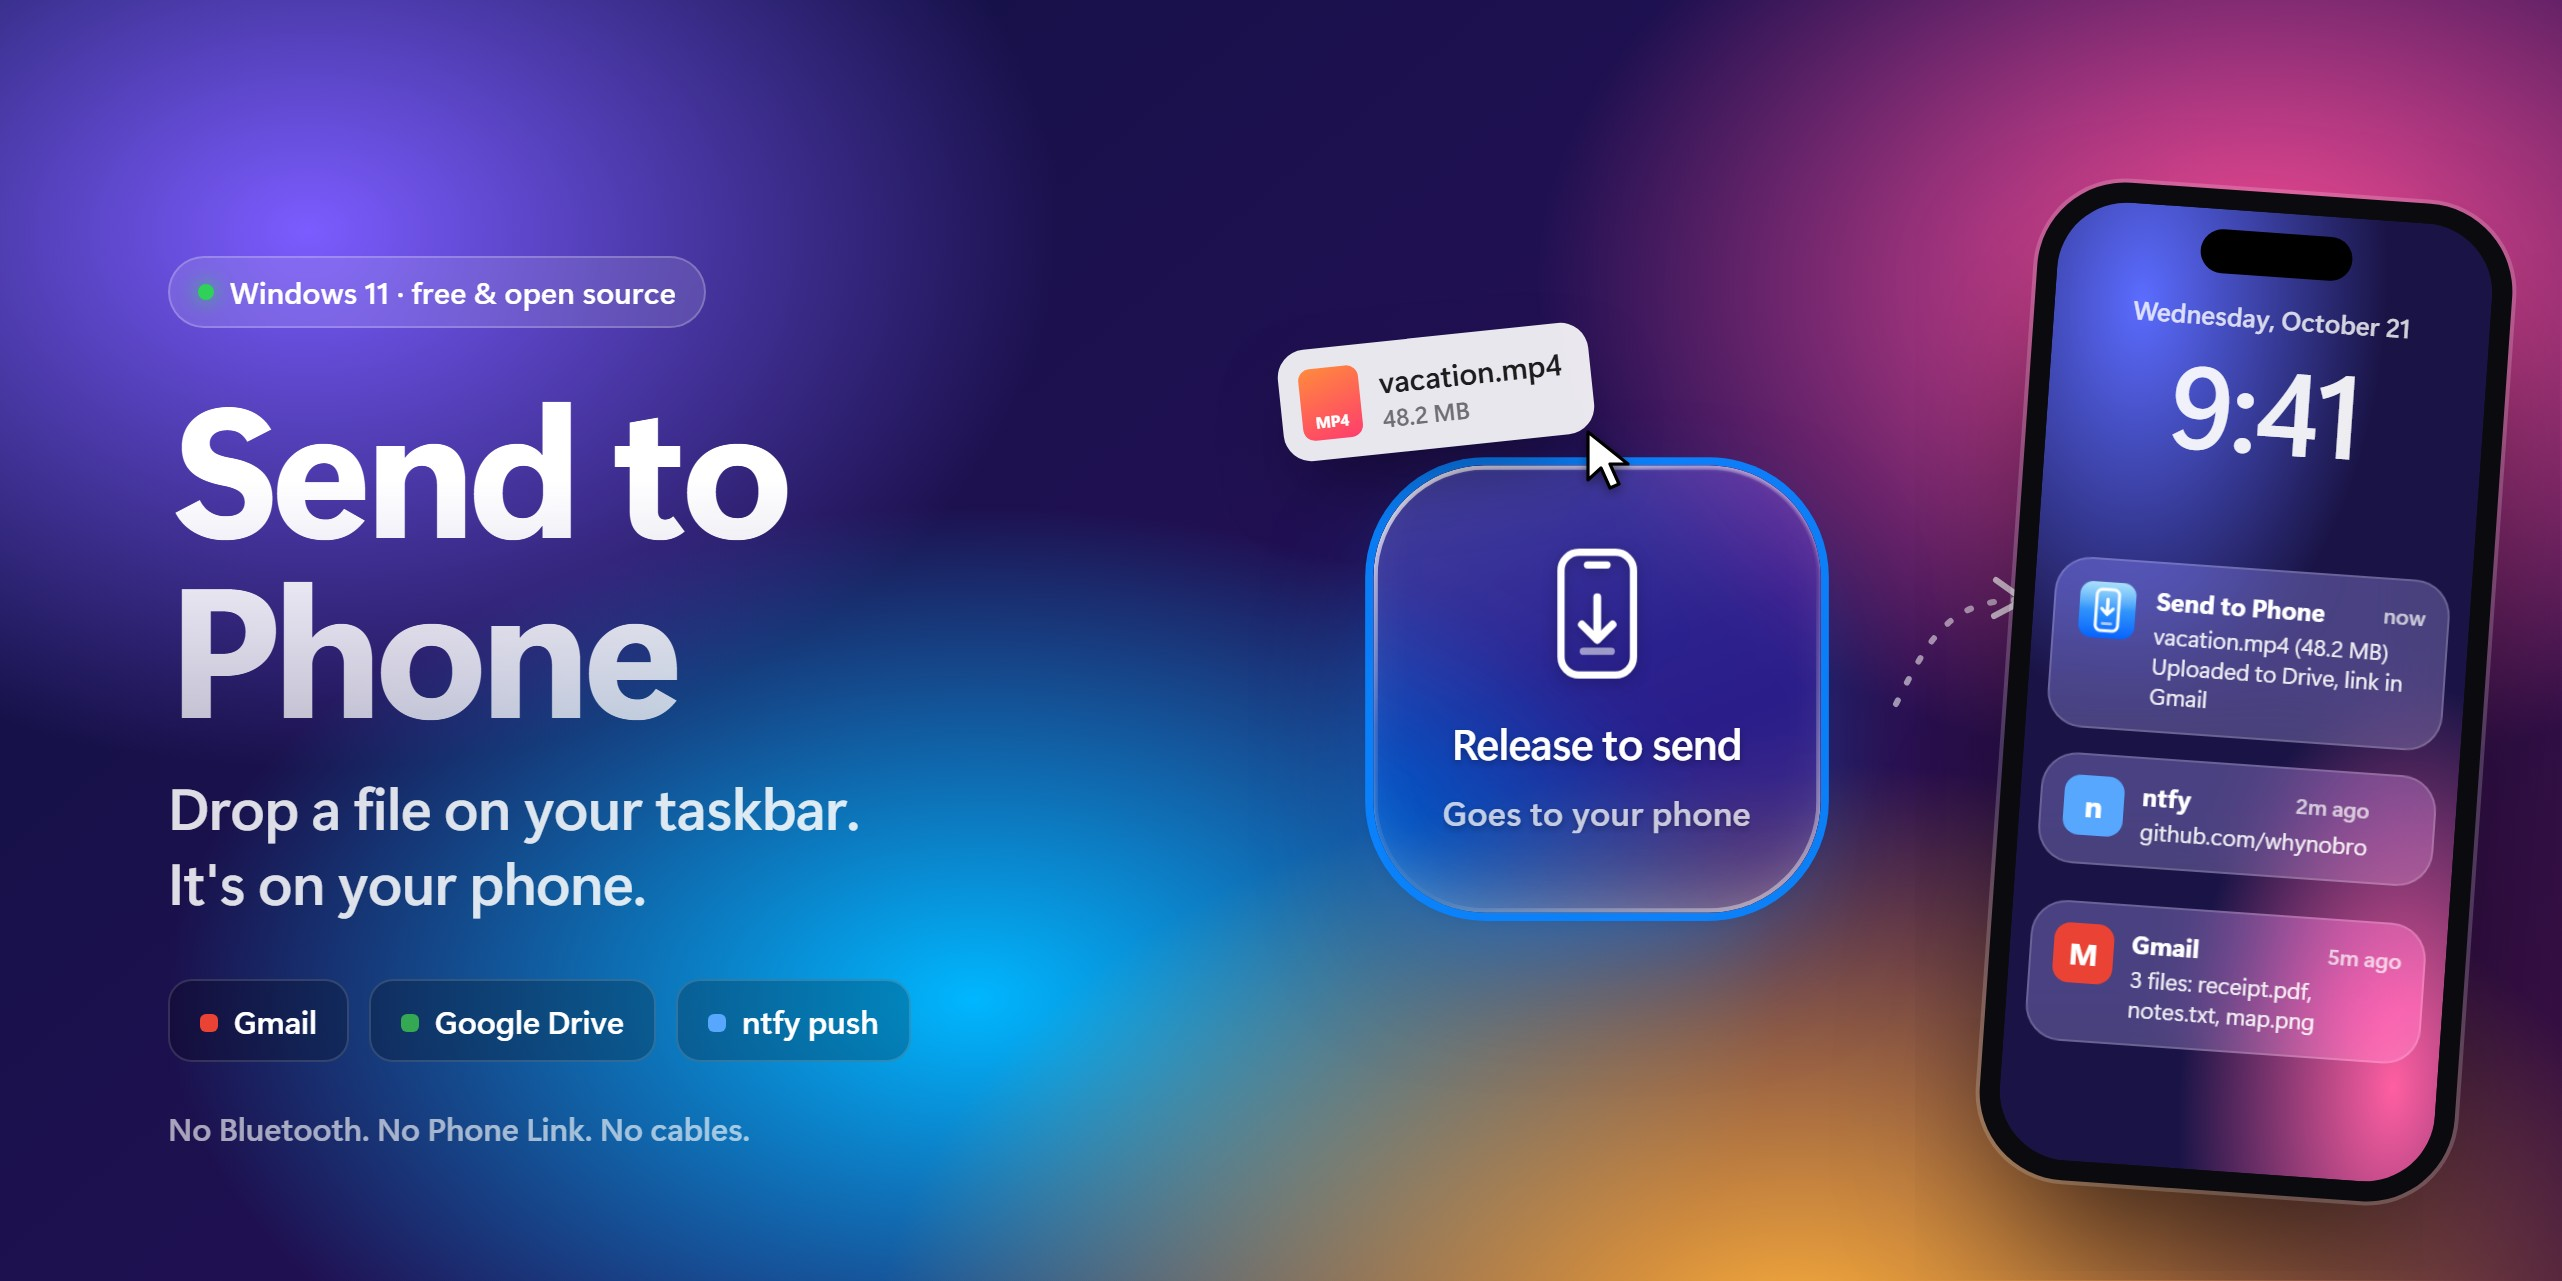
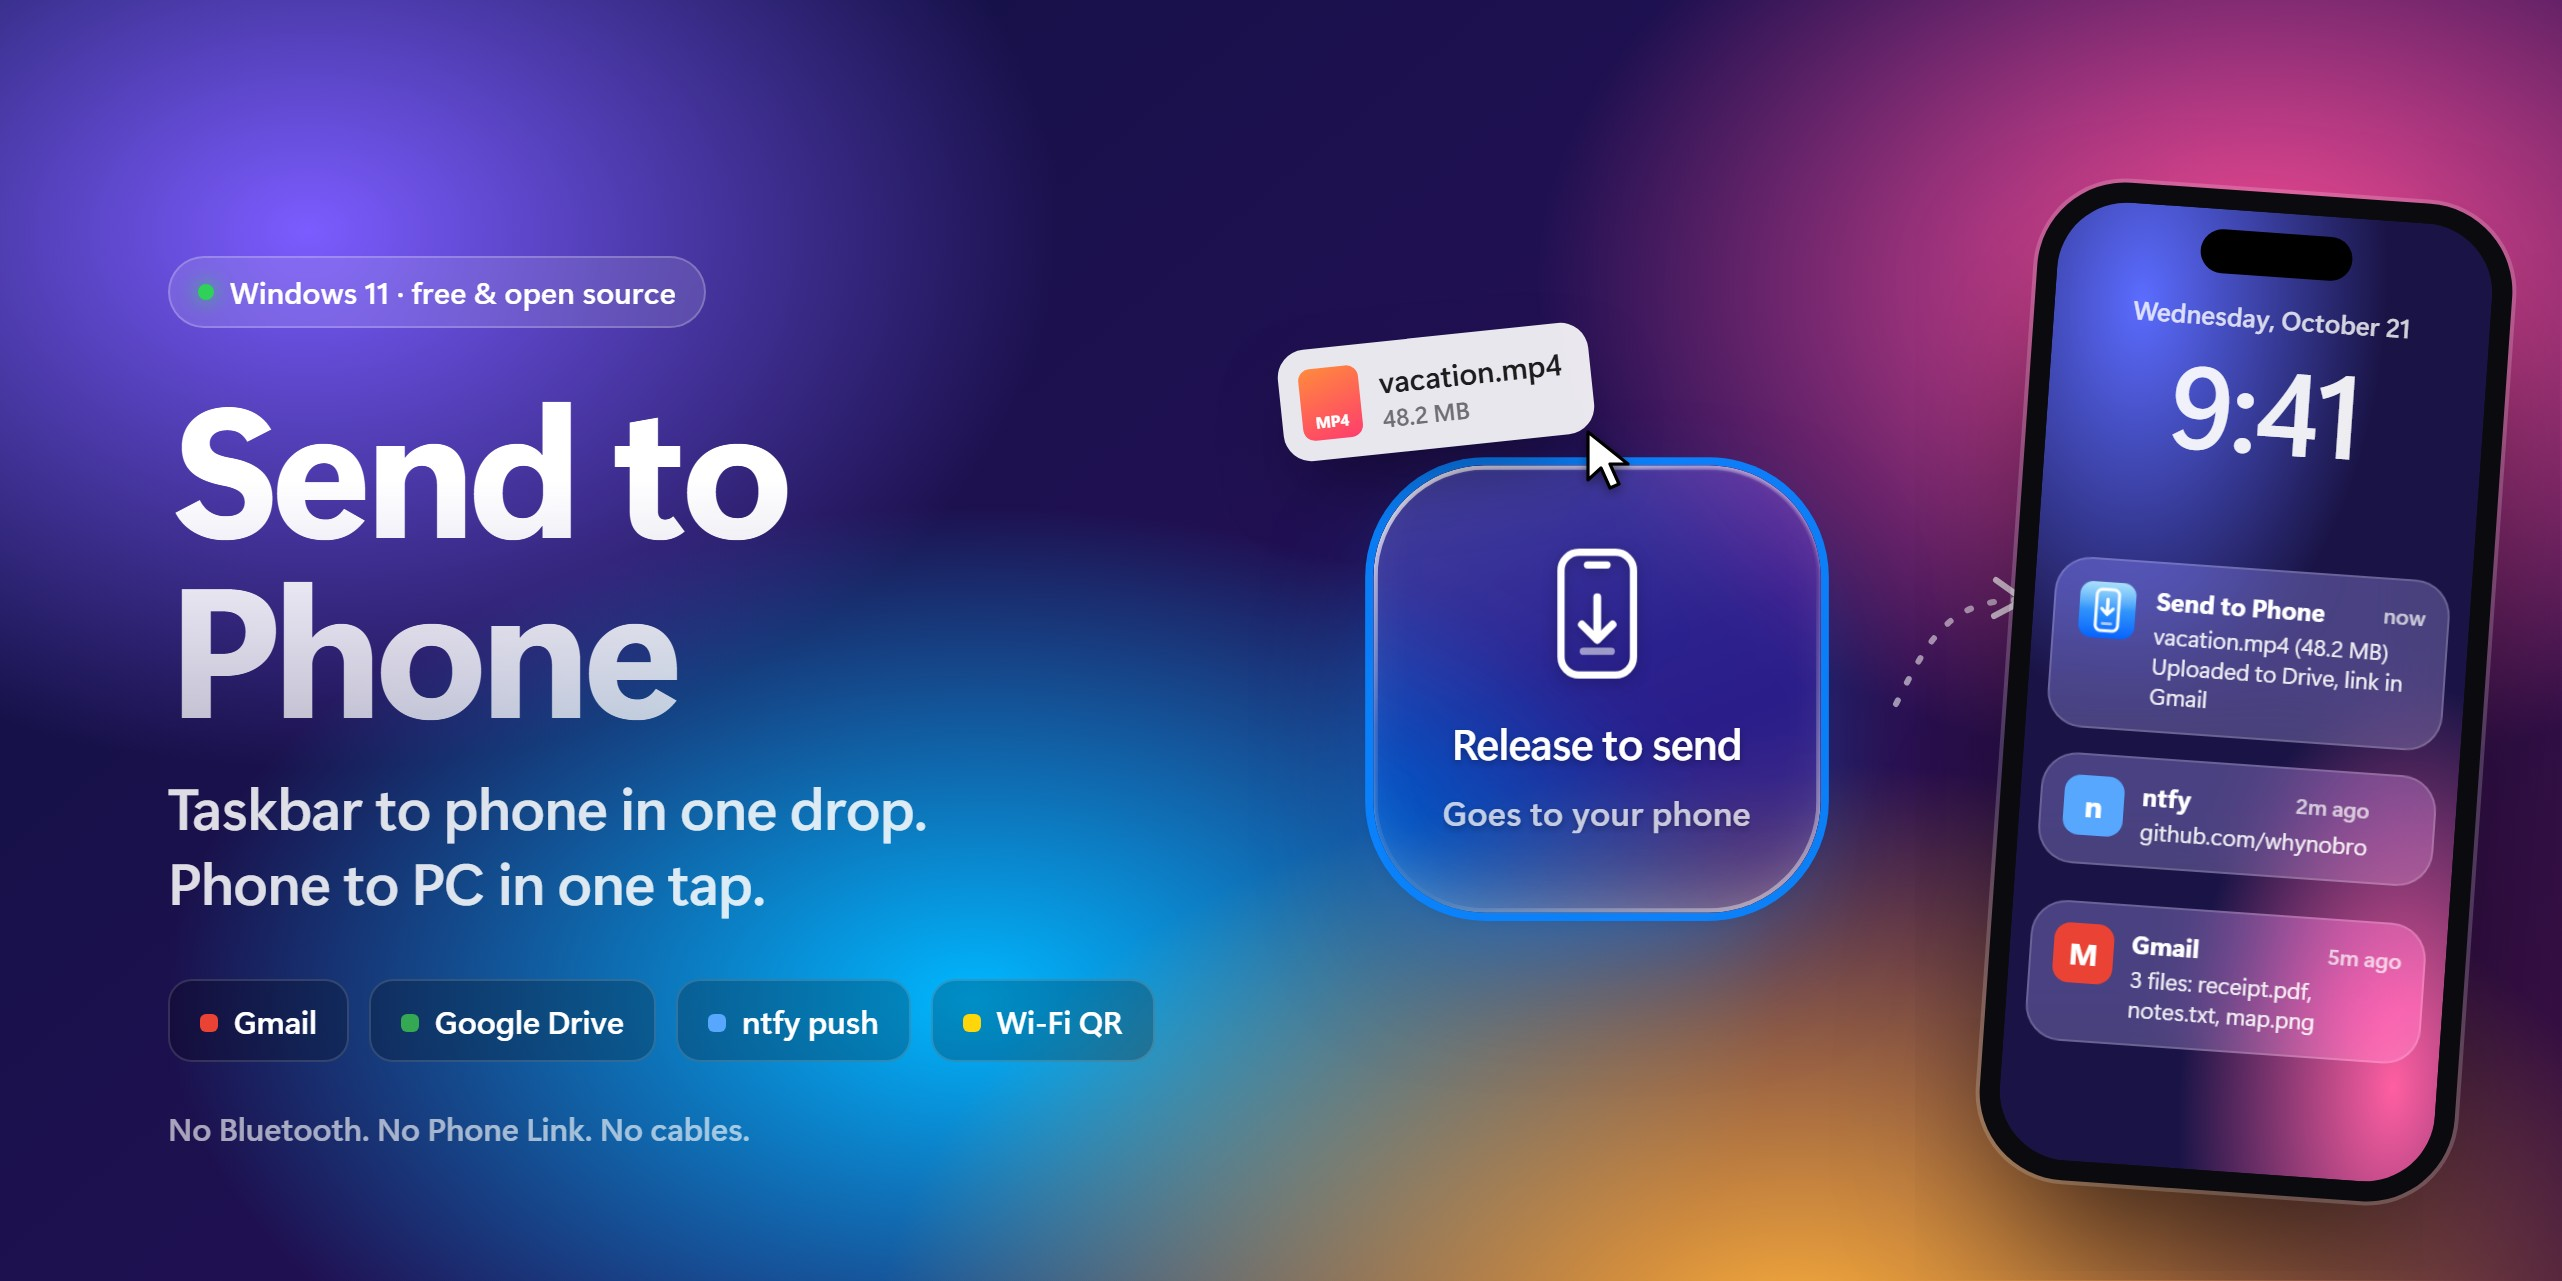
Show the two-way flow in the README and media
Banner tagline now covers both directions and adds a Wi-Fi QR chip.
New receive.jpg renders the real phone drop page beside the widget's
Received state and toast. README hero, intro and nav link to Phone to PC.

Changed region(s): [[0.0625, 0.5933, 0.3747, 0.7182], [0.3435, 0.7494, 0.4684, 0.8431]]

diff --git a/scripts/render-media.js b/scripts/render-media.js
@@ -1,10 +1,11 @@
 // Renders the README media in docs/media from the app's real widget.html CSS + markup,
-// over a synthetic wallpaper. Run: npm run media (ONLY=banner|states|taskbar|gif for one).
+// over a synthetic wallpaper. Run: npm run media (ONLY=banner|states|taskbar|receive|gif for one).
 const { app, BrowserWindow } = require('electron');
 const fs = require('fs');
 const os = require('os');
 const path = require('path');
 const { GIFEncoder, quantize, applyPalette } = require('gifenc');
+const { renderPage } = require('../src/dropserver');
 
 const proj = path.join(__dirname, '..');
 const out = path.join(proj, 'docs', 'media');
@@ -103,11 +104,12 @@ const banner = page(1280, 640, `
   <div class="copy">
     <div class="pill"><i></i>Windows 11 · free &amp; open source</div>
     <h1>Send to<br>Phone</h1>
-    <div class="tag">Drop a file on your taskbar.<br>It's on your phone.</div>
+    <div class="tag">Taskbar to phone in one drop.<br>Phone to PC in one tap.</div>
     <div class="chips">
       <div class="chip"><b style="background:#ea4335"></b>Gmail</div>
       <div class="chip"><b style="background:#34a853"></b>Google Drive</div>
       <div class="chip"><b style="background:#57a7ff"></b>ntfy push</div>
+      <div class="chip"><b style="background:#ffd60a"></b>Wi-Fi QR</div>
     </div>
     <div class="fine">No Bluetooth. No Phone Link. No cables.</div>
   </div>
@@ -165,6 +167,51 @@ const bar = (top, light, state, title, label) => `
     <div class="tray">9:41 AM<br>10/21/2026</div>
   </div>`;
 const taskbarPage = page(1000, 300, bar(28, false, 'idle', 'Send to Phone') + bar(124, false, 'sending', 'Sending 42%') + bar(220, true, 'done', 'Sent'), TB_CSS);
+
+// ---------- receive (phone -> PC) ----------
+// The phone shows the real drop page from dropserver.js, frozen mid-batch (its script stripped).
+const ROWS = [
+  ['IMG_2041.HEIC', '3.1 MB · Sent', 'done', 100],
+  ['lecture-scan.pdf', '840 KB · Sent', 'done', 100],
+  ['clip.mov', '212.4 MB · 64%', 'sending', 64],
+];
+const CHECK = '<svg viewBox="0 0 26 26"><circle cx="13" cy="13" r="13" fill="#30d158"/><path d="M7.5 13.5l3.7 3.7 7.3-7.6" fill="none" stroke="#fff" stroke-width="2.4" stroke-linecap="round" stroke-linejoin="round"/></svg>';
+const dropPage = renderPage('My PC')
+  .replace(/<script>[\s\S]*<\/script>/, '')
+  .replace('</style>', ':root { --bg: #000; --card: #1c1c1e; --text: #fff; --sub: #98989f; --track: rgba(120,120,128,.32); } body { padding-top: 54px; }</style>')
+  .replace('<p id="summary" role="status" aria-live="polite"></p>', '<p id="summary">Sending 3 of 3…</p>')
+  .replace('<ul id="list"></ul>', '<ul id="list">' + ROWS.map(([n, m, st, pct]) =>
+    `<li class="row ${st}"><div class="name">${n}</div><div class="state">${st === 'done' ? CHECK : ''}</div><div class="meta">${m}</div><div class="bar"><i style="width:${pct}%"></i></div></li>`).join('') + '</ul>');
+const RX_CSS = `
+  .rphone { position: absolute; left: 96px; top: 34px; width: 286px; height: 572px; border-radius: 46px; background: #0b0b0f; padding: 10px; box-sizing: border-box;
+    box-shadow: 0 0 0 2px rgba(255,255,255,.18), 0 40px 80px -20px rgba(0,0,0,.7); transform: rotate(-3deg); }
+  .rscreen { width: 100%; height: 100%; border-radius: 37px; overflow: hidden; position: relative; background: #000; }
+  .rscreen iframe { border: 0; width: 390px; height: 753px; transform: scale(.682); transform-origin: 0 0; }
+  .island { position: absolute; top: 10px; left: 50%; transform: translateX(-50%); width: 80px; height: 23px; border-radius: 12px; background: #000; z-index: 2; }
+  .rcopy { position: absolute; left: 500px; top: 70px; width: 680px; }
+  .rcopy h2 { font-size: 64px; line-height: 1; margin: 0 0 16px; font-weight: 750; letter-spacing: -.035em; }
+  .rcopy p { font-size: 25px; line-height: 1.35; margin: 0; color: rgba(255,255,255,.86); font-weight: 500; }
+  .rchips { display: flex; gap: 10px; margin-top: 24px; }
+  .rchips div { padding: 9px 15px; border-radius: 12px; font-size: 16px; font-weight: 600; background: rgba(0,0,0,.22); border: 1px solid rgba(255,255,255,.14); }
+  .toast { position: absolute; left: 740px; top: 392px; width: 392px; border-radius: 10px; padding: 14px 16px 16px; box-sizing: border-box;
+    background: rgba(32,32,36,.9); border: 1px solid rgba(255,255,255,.1); box-shadow: 0 24px 50px -16px rgba(0,0,0,.6); font-size: 14px; }
+  .toast .app { display: flex; gap: 8px; align-items: center; font-size: 12px; color: rgba(255,255,255,.75); margin-bottom: 10px; }
+  .toast .app img { width: 16px; height: 16px; }
+  .toast b { display: block; font-size: 15px; margin-bottom: 3px; }
+  .toast span { color: rgba(255,255,255,.75); }
+  .rarc { position: absolute; left: 0; top: 0; }`;
+const receivePage = page(1240, 620, `
+  <div class="rphone"><div class="rscreen"><div class="island"></div><iframe srcdoc="${dropPage.replace(/&/g, '&amp;').replace(/"/g, '&quot;')}"></iframe></div></div>
+  <div class="rcopy">
+    <h2>And back again</h2>
+    <p>Scan the QR code on your PC, pick photos or files.<br>They land in your Downloads folder.</p>
+    <div class="rchips"><div>Same Wi-Fi: any size, no app</div><div>ntfy: from anywhere</div></div>
+  </div>
+  <svg class="rarc" width="1240" height="620"><path d="M404 470 C 450 520, 470 470, 486 446" fill="none" stroke="rgba(255,255,255,.55)" stroke-width="3" stroke-dasharray="2 10" stroke-linecap="round"/>
+    <path d="M476 446 l12 -2 1 13" fill="none" stroke="rgba(255,255,255,.7)" stroke-width="3" stroke-linecap="round" stroke-linejoin="round"/></svg>
+  ${tile(486, 356, 1.15, 'done', 'Received', 'lecture-scan.pdf')}
+  <div class="toast"><div class="app"><img src="${ICON}">Send to Phone</div><b>2 files from your phone</b><span>IMG_2041.HEIC, lecture-scan.pdf</span></div>
+`, RX_CSS);
 
 // ---------- render ----------
 async function open(html, name, w, h, zoom = 2) {
@@ -279,6 +326,7 @@ app.whenReady().then(async () => {
     if (!only || only === 'banner') await shot(banner, 'banner', 1280, 640, 'jpg');
     if (!only || only === 'states') await shot(statesPage, 'states', 1240, 300);
     if (!only || only === 'taskbar') await shot(taskbarPage, 'taskbar', 1000, 300);
+    if (!only || only === 'receive') await shot(receivePage, 'receive', 1240, 620, 'jpg');
     if (!only || only === 'gif') await gif();
   } catch (e) {
     console.error(e);

diff --git a/src/dropserver.js b/src/dropserver.js
@@ -471,4 +471,4 @@ async function startDropServer({ port = 47800, token, dir, pcName = 'your PC', o
   };
 }
 
-module.exports = { startDropServer, lanAddresses, isPrivateAddress };
+module.exports = { startDropServer, lanAddresses, isPrivateAddress, renderPage };

diff --git a/README.md b/README.md
@@ -1,4 +1,4 @@
-<a href="https://github.com/whynobro/CompToPhoneWidget/releases/latest"><img src="docs/media/banner.jpg" alt="Send to Phone: drop a file on your taskbar, it's on your phone" width="100%"></a>
+<a href="https://github.com/whynobro/CompToPhoneWidget/releases/latest"><img src="docs/media/banner.jpg" alt="Send to Phone: taskbar to phone in one drop, phone to PC in one tap" width="100%"></a>
 
 <p align="center">
   <a href="https://github.com/whynobro/CompToPhoneWidget/releases/latest"><img src="https://img.shields.io/github/v/release/whynobro/CompToPhoneWidget?style=for-the-badge&color=0a84ff&label=release" alt="Latest release"></a>
@@ -8,18 +8,19 @@
   <a href="LICENSE"><img src="https://img.shields.io/github/license/whynobro/CompToPhoneWidget?style=for-the-badge&color=ff375f" alt="License"></a>
 </p>
 
-<h3 align="center">A little glass drop zone in your Windows 11 taskbar.<br>Drop a file on it. It's on your phone.</h3>
+<h3 align="center">A little glass drop zone in your Windows 11 taskbar.<br>Drop a file on it: it's on your phone. Send one back: it's in Downloads.</h3>
 
 <p align="center">
   <a href="https://github.com/whynobro/CompToPhoneWidget/releases/latest"><b>⬇ Download for Windows 11</b></a>
   &nbsp;·&nbsp; <a href="#-how-it-routes">How it routes</a>
+  &nbsp;·&nbsp; <a href="#-phone-to-pc">Phone to PC</a>
   &nbsp;·&nbsp; <a href="#-setup">Setup</a>
   &nbsp;·&nbsp; <a href="#-for-developers">Developers</a>
 </p>
 
 <p align="center"><img src="docs/media/demo.gif" alt="Dragging a file onto the widget: it highlights, uploads with a percentage, then shows a green check" width="420"></p>
 
-No Bluetooth pairing. No Phone Link. No cables, no cloud account to create. It uses apps your phone already has (Gmail, Google Drive) or a free push app (ntfy), and it opens in about half a second.
+No Bluetooth pairing. No Phone Link. No cables, no cloud account to create. PC to phone uses apps your phone already has (Gmail, Google Drive) or a free push app (ntfy). Phone to PC is a QR code: scan it, pick photos, they're in your Downloads folder. It opens in about half a second.
 
 ## ✨ Features
 
@@ -61,6 +62,8 @@ flowchart LR
 ## 📥 Phone to PC
 
 Right-click the widget → **Receive from phone…** Files land straight in your **Downloads** folder and a toast tells you (click it to show the file).
+
+<p align="center"><img src="docs/media/receive.jpg" alt="The phone's drop page uploading three files while the PC widget shows Received and a toast lists the files" width="100%"></p>
 
 | Way | Phone needs | Limit | How |
 |---|---|---|---|
@@ -107,7 +110,7 @@ npm install
 npm start          # launches detached (clears VS Code's ELECTRON_RUN_AS_NODE)
 npm test           # sender, downloads, drop server and ntfy inbox tests (localhost only)
 npm run dist       # build dist/Send-to-Phone-Setup-<version>.exe (NSIS, per-user)
-npm run media      # re-render docs/media (banner, states, taskbar, demo GIF) from widget.html
+npm run media      # re-render docs/media (banner, states, taskbar, receive, demo GIF) from the real app markup
 npm run icon       # regenerate assets/icon.png + icon.ico
 ```
 
